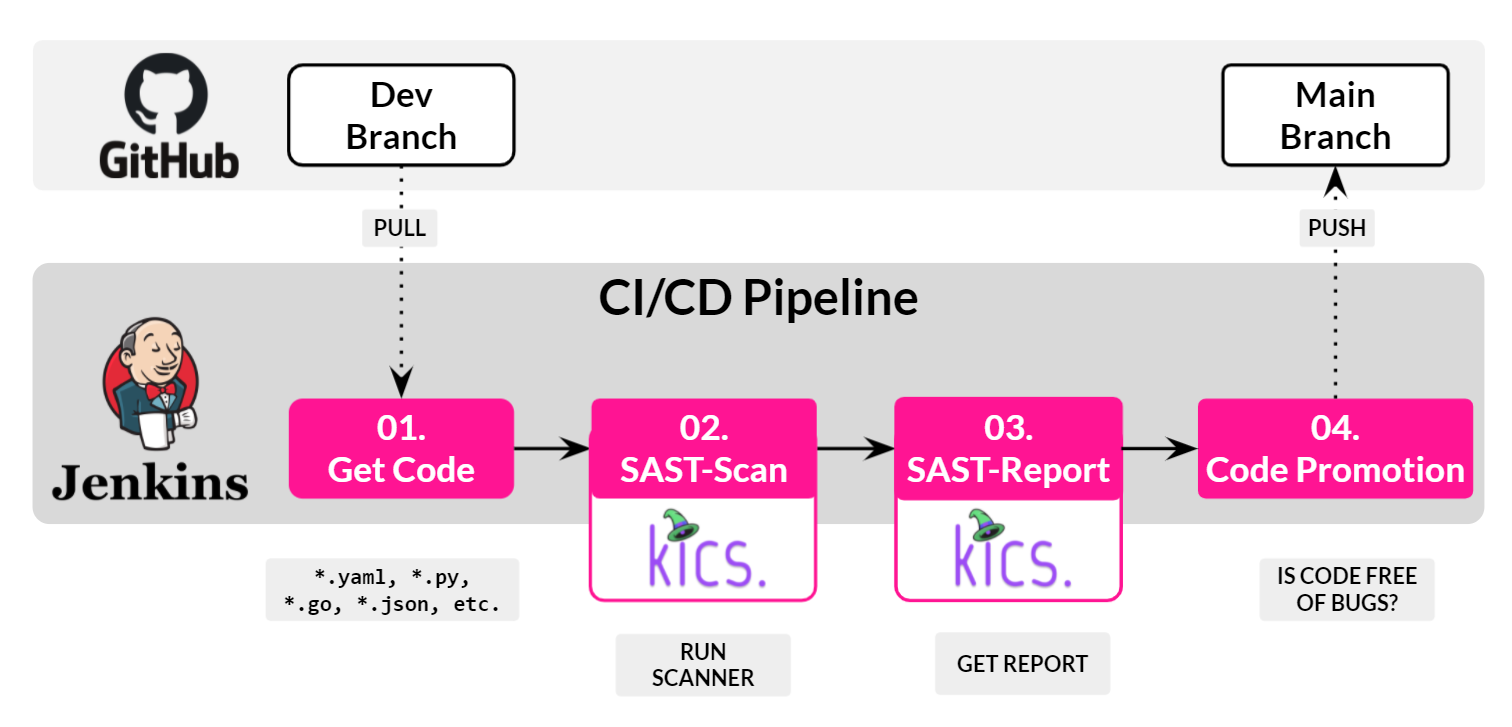
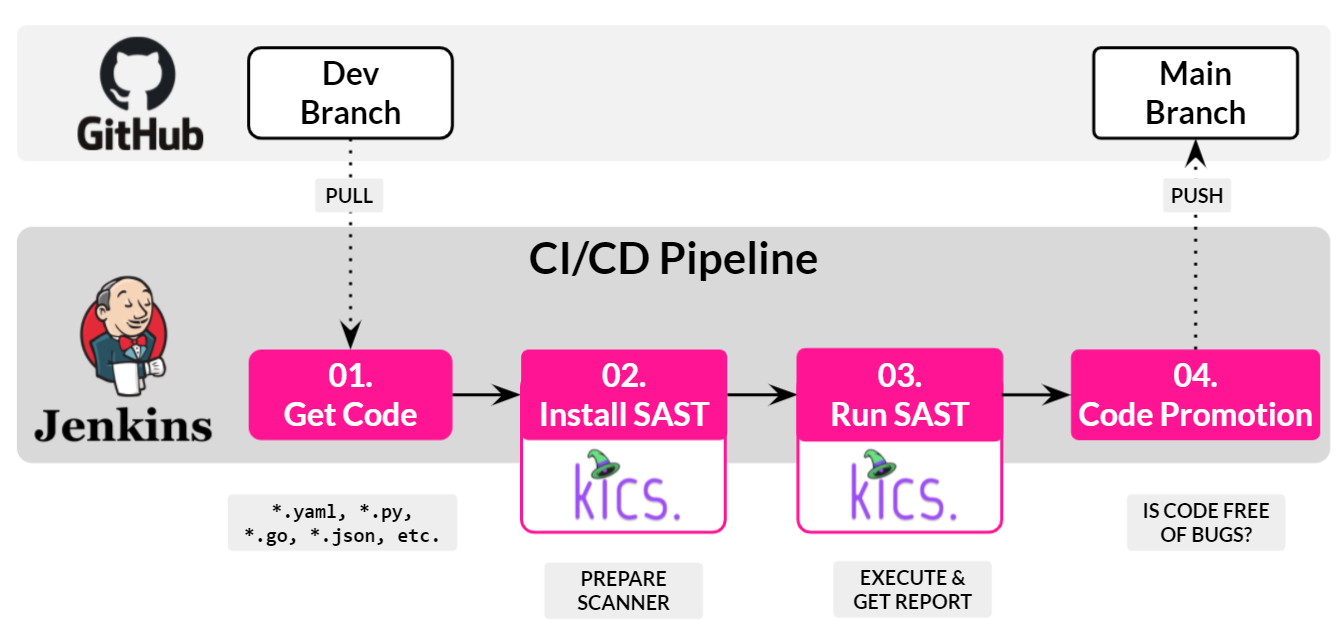
Published content: 20210706 updated

diff --git a/ghp-scripts/content/post/2021-07-06-sast-in-sdlc-for-cloud-native-apps.md b/ghp-scripts/content/post/2021-07-06-sast-in-sdlc-for-cloud-native-apps.md
@@ -12,8 +12,9 @@ aliases:
 ---
 
 [SAST](https://en.wikipedia.org/wiki/Static_application_security_testing) stands for "Static Application Security Testing" and it is used to identify vulnerabilities 
-by reviewing the source code. The best point or place to implement this Security Testing, and according the Security Best Practices, is in early stages of your 
-CI/CD Pipeline. But What about of SAST in Cloud Native Applications?. You will see in this post 😉 how to deal with that using only opensource.
+by reviewing the source code. The best point or place to implement this kind of Security Testing is in early stages of your CI/CD Pipeline ([Shift-left Testing](https://en.wikipedia.org/wiki/Shift-left_testing)). 
+But What if you are building a Cloud Native Applications wich includes new artifacts or building blocks as Docker and/or Cloud Resources, what should do now to use SAST tools and techniques?. 
+In this post, I will explain how to setup Jenkins on AWS to run a Pipeline with a SAST stage and everything using AWS CDK.
 
 [![](/assets/blog20210706_sast/20210706-sast-in-your-sdlc-for-cloud-native-apps.png)](/assets/blog20210706_sast/20210706-sast-in-your-sdlc-for-cloud-native-apps.png)
 {{< rawhtml >}}
@@ -24,7 +25,7 @@ CI/CD Pipeline. But What about of SAST in Cloud Native Applications?. You will s
 
 ## SAST in Cloud-Native Applications
 
-Implement SAST in old-school or traditional Application is/was easy because you have to deal with a big block or a monolithic stack, but how to do the same with Cloud 
+Implement SAST in old-school or traditional Application was straight forward because you have to deal with a big block or a monolithic stack, but how to do the same with Cloud 
 Native Applications?. The answer is using as many SAST tools as different types of code, artifacts or building blocks compose your stack.   
 For example, a standard Cloud Native Application stack is composed of:
 1. Microservices in different languages (Python, Golang, PHP, ...)
@@ -33,11 +34,11 @@ For example, a standard Cloud Native Application stack is composed of:
 4. Infrastructure as Code (Terraform, CloudFormation, Kubernetes manifests, ...)
 5. Configuration code (Chef, Bash, Ansible, ...)
 
-Then, we are going to require 5 or less different SAST tools to review statically the code for each kind of code or artifact. Below I show a SAST tool list where you can pickup any tool for convenience or based on your requirements.
+Thus, for a satandard Cloud-Native Application, we are going to require 5 or less different SAST tools to review statically the code for each kind of code or artifact. Below I show a SAST tool list from which you can pick up any tool for convenience or based on your requirements.
 
 ### Opensource SAST tools for Cloud-Native stacks
 
-I'm going to list only a few SAST tools, but if you want to browse the full list, even DAST, IAST or RASP tools, look my post about [Security along the SDLC for Cloud-Native Apps](/2020/02/10/security-along-the-container-based-sdlc/#oss-sec-list).
+I'm going to list only a few SAST tools, but if you want to browse the full list, even DAST, IAST or RASP tools, you can check out my post about [Security along the SDLC for Cloud-Native Apps](/2020/02/10/security-along-the-container-based-sdlc/#oss-sec-list).
 
 | No. | SAST Tool                                                   |                                                               | Vulnerability scanner for   |
 |---  |---                                                          |---                                                            |---                          |
@@ -65,9 +66,10 @@ I'm going to list only a few SAST tools, but if you want to browse the full list
 | 22. | [tfsec](https://github.com/aquasecurity/tfsec)      | ![](/assets/blog20210706_sast/sast-tfsec.png)              | Terraform templates and support Terraform CDK. |
 |-    |                                                                  |                                                       |                          |
 
-## The CI/CD Tooling and the Pipeline with SAST 
+## Designing the CI/CD Pipeline with a SAST stage
 
-In order to embed the SAST process in our CI/CD pipeline, we will need at least 3 things:
+In this point we have a Cloud-Native Application that requires be statically scanned for security vulnerabilities, now is time to design and get ready our CI/CD Tooling. 
+In order to embed the SAST process in your CI/CD pipeline, you will need at least 3 things:
 
 1. The CI/CD server
   * It will orchestrate the multiple tasks (stages) defined in our CI/CD workflow.
@@ -79,19 +81,21 @@ In order to embed the SAST process in our CI/CD pipeline, we will need at least 
   * It will work as our web portal to consolidate all our outcomes in a single point. 
   * Initially, I wanted to use SonarQube, but unfortunatelly it has limitations to [import third party generated reports](https://docs.sonarqube.org/latest/analysis/external-issues/), although It can be used as SAST tool as well, in this post I'm going to use Jenkins and HTML reports.
 
-[![](/assets/blog20210706_sast/20210706-sast-in-your-cicd-pipeline.png)](/assets/blog20210706_sast/20210706-sast-in-your-cicd-pipeline.png)
+[![](/assets/blog20210706_sast/20210706-sast-in-your-cicd-pipeline-iac.png)](/assets/blog20210706_sast/20210706-sast-in-your-cicd-pipeline-iac.png)
 {{< rawhtml >}}
-<i><center>SAST stage in CI/CD Pipeline</center></i>
+<i><center>CI/CD design</center></i>
 {{</ rawhtml >}}
-
 
 ## Implementing the CI/CD Pipeline with a SAST stage
 
 * I'm going to use AWS EC2 to deploy everything.
 * Everything will be Dockerized.
-* The Project I'm going to use as example will be [Weaveworks Sock Shop](https://microservices-demo.github.io), specifically the version for AWS ECS which contains CloudFormation Templates. 
-In fact, you could use any kind of Cloud-Native Project, the only thing you need is the GitHub Repository URL. The Jenkins Pipeline I've created uses by default [TerraGoat](https://github.com/bridgecrewio/terragoat.git).
+* The Project I'm going to use as example will be [TerraGoat](https://github.com/bridgecrewio/terragoat.git), although you could use any kind of Cloud-Native Project, the only thing you need is provide the GitHub Repository URL when kicking off the Jenkins Pipeline.
 
+[![](/assets/blog20210706_sast/20210706-sast-in-your-cicd-pipeline.png)](/assets/blog20210706_sast/20210706-sast-in-your-cicd-pipeline.png)
+{{< rawhtml >}}
+<i><center>SAST stage in CI/CD Pipeline implementation</center></i>
+{{</ rawhtml >}}
 
 ### Steps
 
@@ -119,5 +123,6 @@ Further details can be found in the **[Chilcano/AWS-CDK-Examples](https://github
 
 ## References
 
-1. [Awesome Open Source / The Top 254 Static Analysis Open Source Projects](https://awesomeopensource.com/projects/static-analysis)
-2. [Analysis-Tools-Dev / Static-Analysis](https://github.com/analysis-tools-dev/static-analysis)
+1. [Security along the SDLC for Cloud-Native Apps](/2020/02/10/security-along-the-container-based-sdlc/#oss-sec-list) - Posted on 2020/02/10
+2. [Awesome Open Source / The Top 254 Static Analysis Open Source Projects](https://awesomeopensource.com/projects/static-analysis)
+3. [Analysis-Tools-Dev / Static-Analysis](https://github.com/analysis-tools-dev/static-analysis)
